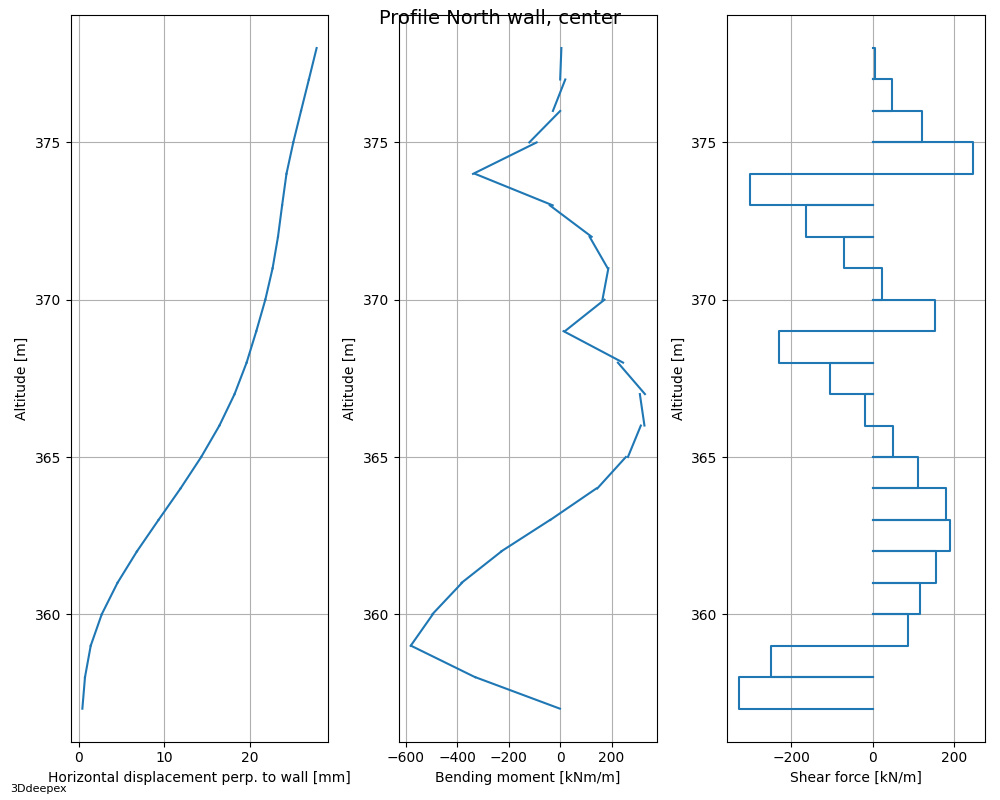
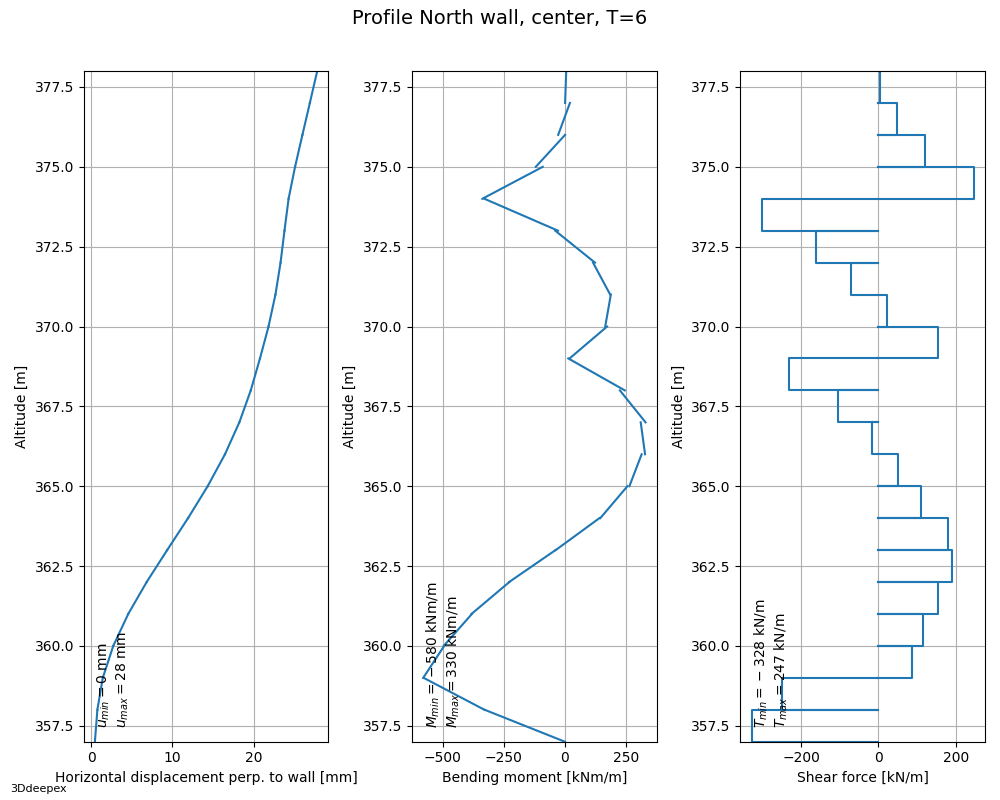
updated README.md

diff --git a/vtk-examples/3Ddeepex/plot_wall_diagrams.py b/vtk-examples/3Ddeepex/plot_wall_diagrams.py
@@ -2,26 +2,8 @@
 # Name:        plot_wall_diagrams
 # Purpose:     plot horizontal displacement, bending moment and shear force
 #              diagrams vs. altitude for a vertical profile through a shell
-#              (wall) panel, at a chosen along-wall location -- the same
-#              "M/T/disp vs depth" diagram BerlinSand's plot_excavation2D.py
-#              draws for a 2D wall, generalized to any wall orientation in a
-#              3D model.
+#              (wall) panel, at a chosen along-wall location.
 #
-# The displacement/moment/shear components plotted are defined by the
-# WALL's OWN geometry (its LocalX/LocalY/LocalZ, as exported by
-# zsoil_to_vtk.py's get_element_local_axes()), not by the cut plane's
-# orientation -- so the same code gives physically correct results for
-# walls running in any direction, without hardcoding which raw
-# SMOMENT/SQFORCE component happens to be "the right one" for a particular
-# wall (that would silently break, or silently be wrong, for a wall running
-# the other way). moment_and_shear_along() reproduces ZSoilPy3's own
-# Element.set_transf_matrices() + Shell_EleResults transform in pure numpy,
-# from the already-exported local axes and raw SMOMENT/SQFORCE -- verified
-# to match the SDK-based computation exactly (0.0 difference) across every
-# segment used here.
-#
-# This script only reads the exported .vtu -- it does not need the ZSoilPy3
-# SDK (or a ZSoil license) at all, unlike the first version of this script.
 #
 # Requires:    a SHELLS .vtu already exported for the requested step by
 #              zsoil_to_vtk.py, carrying (all on by default): Material,
@@ -48,12 +30,9 @@ def find_profile_segments(cut, plane_def, select_tol, wall_mat):
     """
     From a plane's vtkCutter output `cut` (of a SHELLS .vtu), return the cut
     segments belonging to material `wall_mat` that lie within `select_tol`
-    of the plane's origin along `plane_def.axes[0]` (which must be a unit
-    vector for `select_tol` to be a true distance) -- i.e. one
-    representative vertical profile through the wall, at the along-wall
-    location given by the origin. A cut plane can cross more than one wall
-    (e.g. two parallel walls on opposite sides of an excavation); this is
-    how a single one is picked out.
+    of the plane's origin. A cut plane can cross more than one wall
+    (e.g. two parallel walls on opposite sides of an excavation); the
+    `select_tol` instructs how a single one is picked out.
 
     Returns a list of dicts, one per segment, with the raw per-cell/per-point
     data needed to compute displacement/moment/shear in main().
@@ -172,6 +151,11 @@ def main(cut_planes, prob, step, vtk_dir, wall_mat, vertical_dir, select_tol):
         fig.text(0.01, 0.01, prob, size=8)
         AX = [fig.add_subplot(1, 3, kk + 1) for kk in range(3)]
 
+        ylim = [1e10, -1e10]
+        ulim = [1e10, -1e10]
+        Mlim = [1e10, -1e10]
+        Tlim = [1e10, -1e10]
+
         for seg in segments:
             result = moment_and_shear_along(
                 vertical_dir, seg["local_x"], seg["local_y"], seg["M"], seg["Q"])
@@ -185,22 +169,41 @@ def main(cut_planes, prob, step, vtk_dir, wall_mat, vertical_dir, select_tol):
             y0, y1 = seg["y0"], seg["y1"]
 
             # M/T come from one Gauss point at the element's center; plot M
-            # varying linearly across the element assuming a constant shear
-            # T, same convention as BerlinSand's plot_excavation2D.py.
+            # varying linearly across the element assuming a constant shear T
             dy = 0.5 * (y1 - y0)
-            AX[0].plot([u0, u1], [y0, y1], color='C0')
-            AX[1].plot([M - dy * T, M + dy * T], [y0, y1], color='C0')
-            AX[2].plot([0, T, T, 0], [y0, y0, y1, y1], color='C0')
+            u_vals = [u0, u1]
+            M_vals = [M - dy * T, M + dy * T]
+            T_vals = [0, T, T, 0]
+            AX[0].plot(u_vals, [y0, y1], color='C0')
+            AX[1].plot(M_vals, [y0, y1], color='C0')
+            AX[2].plot(T_vals, [y0, y0, y1, y1], color='C0')
+
+            ylim[0] = min(ylim[0], y0, y1)
+            ylim[1] = max(ylim[1], y0, y1)
+            ulim[0] = min(ulim[0], *u_vals)
+            ulim[1] = max(ulim[1], *u_vals)
+            Mlim[0] = min(Mlim[0], *M_vals)
+            Mlim[1] = max(Mlim[1], *M_vals)
+            Tlim[0] = min(Tlim[0], *T_vals)
+            Tlim[1] = max(Tlim[1], *T_vals)
 
         AX[0].set_xlabel(u'Horizontal displacement perp. to wall [mm]')
         AX[1].set_xlabel(u'Bending moment [kNm/m]')
         AX[2].set_xlabel(u'Shear force [kN/m]')
         for ax in AX:
             ax.set_ylabel(u'Altitude [m]')
+            ax.set_ylim(ylim)
             ax.grid('on')
 
-        fig.text(0.5, 0.97, 'Profile ' + plane_def.title, size=14, ha='center')
-        fig.tight_layout()
+        AX[0].annotate('$u_{min}=%1.0f$ mm\n$u_{max}=%1.0f$ mm' % (ulim[0], ulim[1]),
+                        xy=(0.05, 0.02), xycoords='axes fraction', rotation=90, va='bottom')
+        AX[1].annotate('$M_{min}=%1.0f$ kNm/m\n$M_{max}=%1.0f$ kNm/m' % (Mlim[0], Mlim[1]),
+                        xy=(0.05, 0.02), xycoords='axes fraction', rotation=90, va='bottom')
+        AX[2].annotate('$T_{min}=%1.0f$ kN/m\n$T_{max}=%1.0f$ kN/m' % (Tlim[0], Tlim[1]),
+                        xy=(0.05, 0.02), xycoords='axes fraction', rotation=90, va='bottom')
+
+        fig.text(0.5, 0.97, 'Profile %s, T=%g' % (plane_def.title, step), size=14, ha='center')
+        fig.tight_layout(rect=[0, 0, 1, 0.93])
         fig.savefig('{}_wall_diagrams_{}'.format(prob, plane_def.title))
         plt.close(fig)
 

diff --git a/README.md b/README.md
@@ -15,13 +15,14 @@ ZSoil install, not just this repository.
 
 ## What's in here
 
-Two worked examples, each pairing a ZSoil input deck with a set of Python scripts that
+Three worked examples, each pairing a ZSoil input deck with a set of Python scripts that
 read the solver's result files and turn them into figures:
 
 | Example | Problem | Scripts |
 |---|---|---|
 | [`BerlinSand/`](BerlinSand) | Braced excavation retained by an anchored diaphragm wall | `run_all.py` + 5 `plot_*.py` modules |
 | [`PileFoundation/`](PileFoundation) | 3×2 pile group under a raft | `plot_piles_3D.py`, `plot_piles_diagrams.py` |
+| [`vtk-examples/3Ddeepex/`](vtk-examples/3Ddeepex) | 3D braced excavation with diaphragm walls (shell elements) | `extract_vtk.py` + 3 `plot_*.py` modules, on top of the shared `vtk-examples/zsoil_to_vtk.py` exporter |
 
 ## Extraction pipeline
 
@@ -81,8 +82,72 @@ Example output at T=5.0:
 </tr>
 </table>
 
+## VTK export pipeline
+
+`vtk-examples/` takes a different approach from the two examples above: instead of
+every plotting script reading the ZSoil result files directly, one shared exporter
+(`zsoil_to_vtk.py`) turns the mesh + results into a ParaView-readable VTK time series
+once, and everything downstream reads *that* — mostly without touching ZSoilPy3 at all.
+
+```mermaid
+graph LR
+  A["Input deck<br/>*.inp / *.dat"] --> B["ZSoil solver"]
+  B --> C[("Binary result set<br/>.his .rcf .rNN/.sNN")]
+  C --> D["zsoil_to_vtk.py<br/>(needs ZSoilPy3)"]
+  D --> E[(".vtu per step/group<br/>+ .pvd collection")]
+  E --> F["plot_*.py<br/>vtk + numpy + matplotlib only"]
+  F --> G["figures<br/>.png"]
+```
+
+Three shared files live directly in `vtk-examples/`, used by every example folder
+underneath it (currently just `3Ddeepex/`):
+
+| File | Purpose |
+|---|---|
+| `zsoilpy_env.py` | Locates ZSoilPy3 on disk (same helper as `BerlinSand/`/`PileFoundation/`) |
+| `zsoil_to_vtk.py` | Exports one project to `.vtu`/`.pvd` (`export_to_vtk()`); the only file here that needs ZSoilPy3 |
+| `vtk_cut_utils.py` | `CutPlane`, `project_on_plane`, `GetDiscreteColormap`, `get_tstr` — no ZSoilPy3 dependency, shared by every cross-section script |
+
+`export_to_vtk()` controls which steps, element groups and result arrays get written
+(`DEFAULT_ELEMENT_ARRAYS`) — including, for `SHELLS`, `BEAMS` and 3D `CONTACT`
+elements, each element's own local coordinate axes (`LocalX`/`LocalY`/`LocalZ`, from
+`get_element_local_axes()`). That's what lets `plot_wall_diagrams.py` resolve bending
+moment and shear about the model's own vertical direction correctly for a wall facing
+*any* way, using plain numpy on the exported arrays — without reopening the ZSoil
+project.
+
+## 3Ddeepex — 3D braced excavation
+
+A rectangular excavation retained by diaphragm walls (`SHELLS`, one material per wall
+face) and props, modeled in 3D. `extract_vtk.py` exports the steps/groups this example
+needs; the three `plot_*.py` scripts each cut the exported mesh with one or more
+vertical planes (`CutPlane`, from `vtk_cut_utils.py`) and plot the intersection.
+
+| Script | Selects | Extracts (API) | Produces |
+|---|---|---|---|
+| `extract_vtk.py` | — | `zsoil_to_vtk.export_to_vtk(...)` | `.vtu`/`.pvd` for the groups/steps this example needs, under `pv/` |
+| `plot_geology_profiles.py` | VOLUMICS elements crossed by each cut plane | `Material` cell array from the `.vtu`; material labels via ZSoilPy3 `Mesh` | Cross-section colored by material, legended by name — `<prob>_geol_<title>.png` |
+| `plot_result_profiles.py` | Same cut planes; `nodal` or `element` mode | A chosen nodal (e.g. `DISP_TRA`) or element (e.g. `STRESSES`) field/component, straight from the `.vtu` | Cross-section colored by that field: filled contours (`tricontourf`) for nodal, flat cell patches for element — `<prob>_<field>-<comp>_<mode>_<title>.png` |
+| `plot_wall_diagrams.py` | SHELLS wall elements crossed by a plane, near one along-wall location | Raw `SMOMENT`/`SQFORCE` + `LocalX`/`LocalY`/`LocalZ` + `DISP_TRA`, all from the `.vtu` — no ZSoilPy3 | Horizontal displacement, bending moment and shear force vs. altitude — `<prob>_wall_diagrams_<title>.png` |
+
+Example output, wall diagrams at T=6:
+
+<table>
+<tr>
+<td><img src="vtk-examples/3Ddeepex/3Ddeepex_wall_diagrams_North%20wall%2C%20center.png" alt="North wall displacement, bending moment and shear force diagrams" width="420"></td>
+<td><img src="vtk-examples/3Ddeepex/3Ddeepex_wall_diagrams_East%20wall%2C%20center.png" alt="East wall displacement, bending moment and shear force diagrams" width="420"></td>
+</tr>
+<tr>
+<td><sub>North wall (running east-west) — same script, same physical quantities as the East wall despite the 90° different orientation</sub></td>
+<td><sub>East wall (running north-south)</sub></td>
+</tr>
+</table>
+
 ## ZSoilPy3 API surface used
 
-Across both examples, the scripts touch: `C_Mesh`, `C_HistoryOfExecution`,
+`BerlinSand/` and `PileFoundation/` touch: `C_Mesh`, `C_HistoryOfExecution`,
 `C_Rcf_info`, `C_NodalResults`, `C_BeamResults`, `C_TrussResults`,
 `C_Contact_2D_Results`, `C_Contact_3D_Results`, and `C_ContinuumResults`.
+`vtk-examples/` needs the SDK only for `zsoil_to_vtk.py` itself (plus material labels
+in `plot_geology_profiles.py`); the rest of that pipeline runs on `vtk`/`numpy`/
+`matplotlib` alone once the `.vtu` files exist.